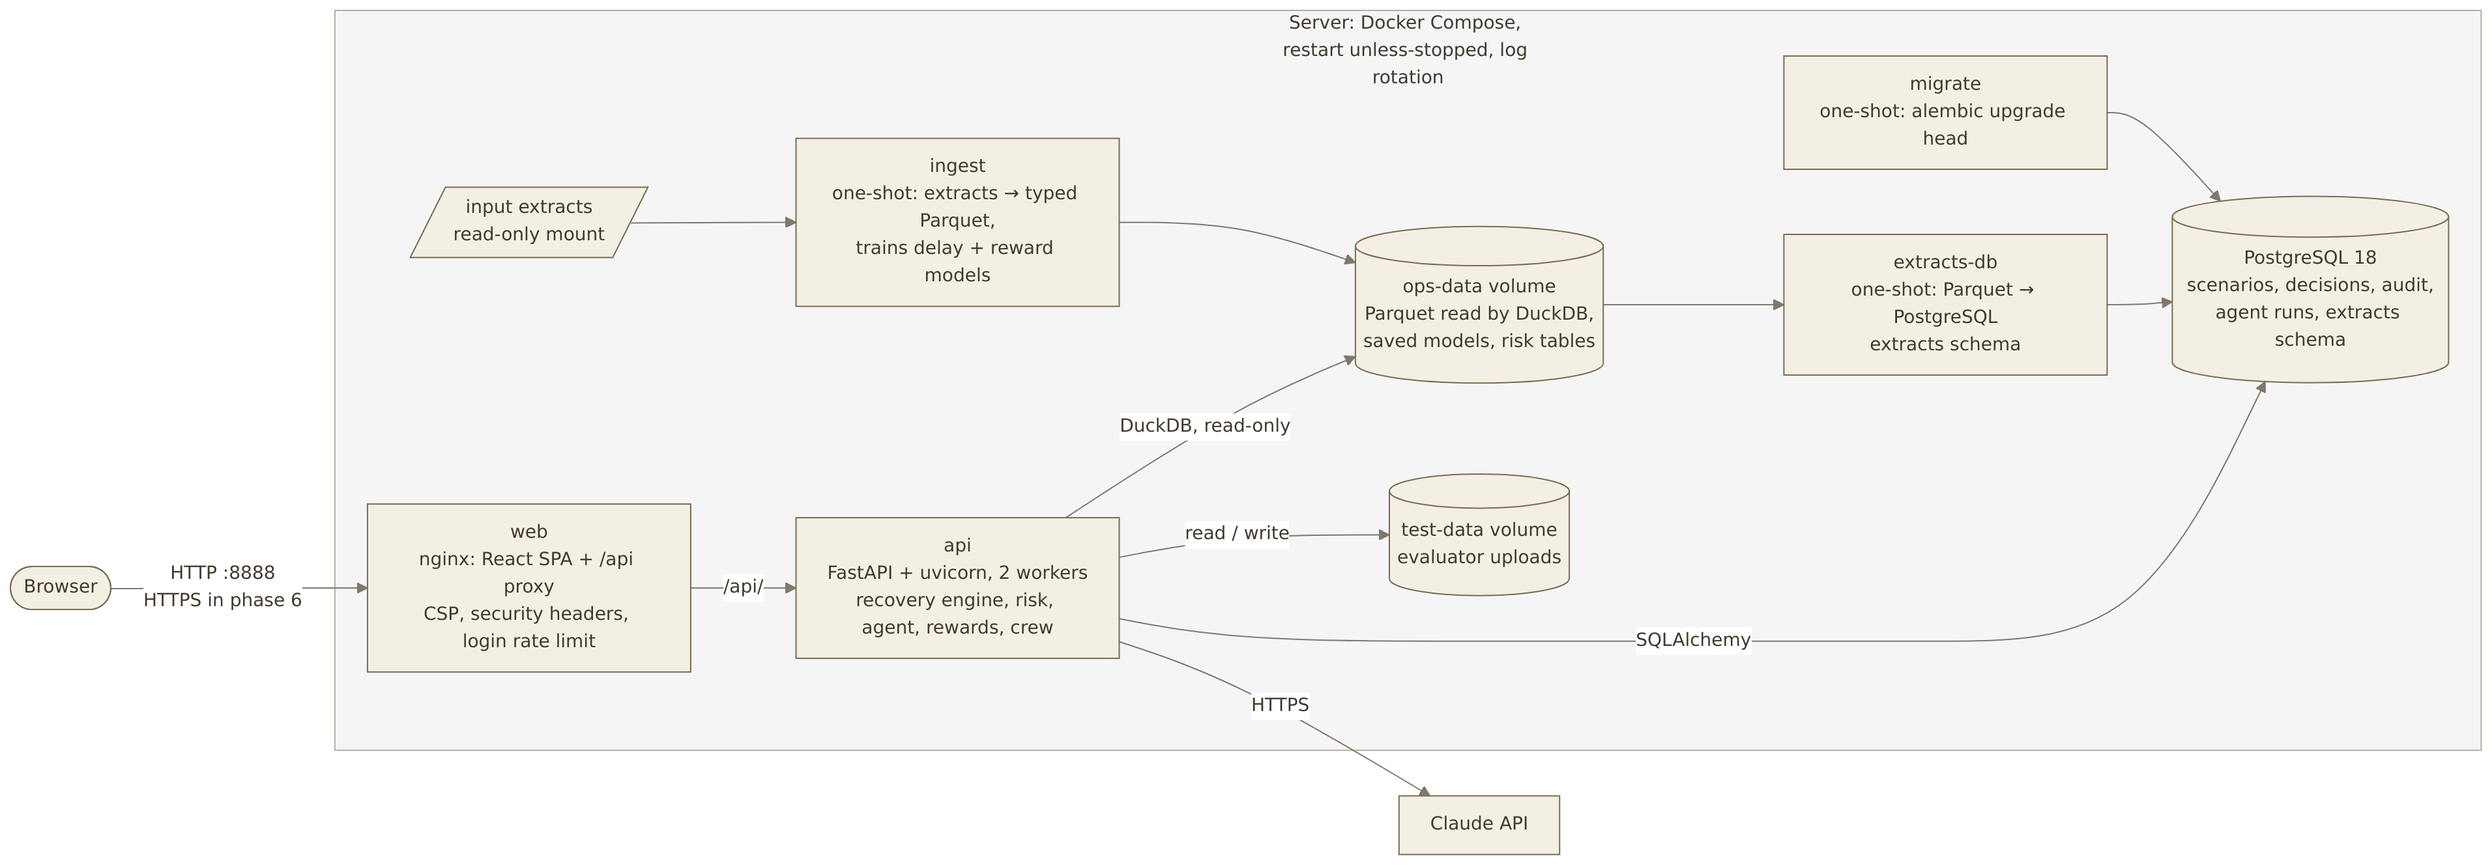
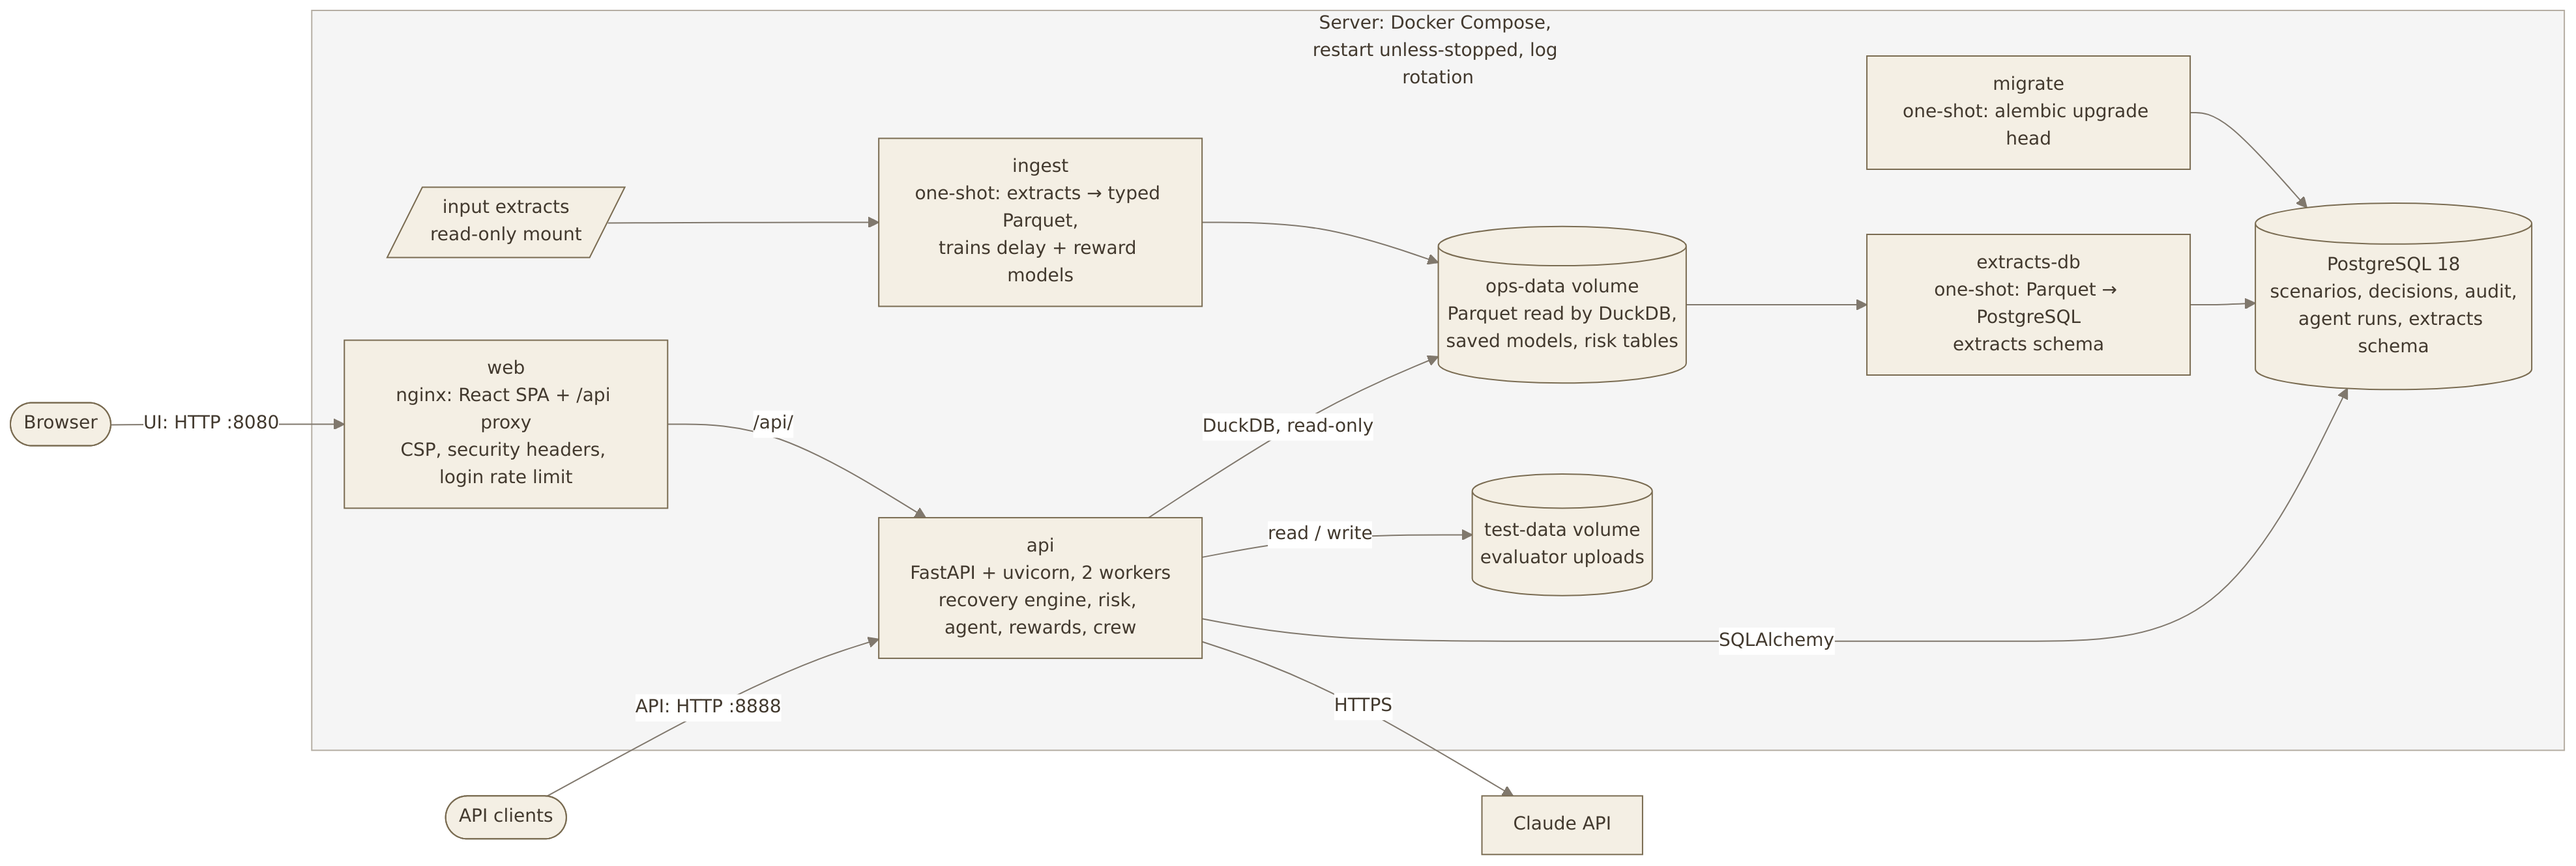
disruption-advisor: Port changes

diff --git a/products/disruption-advisor/source/disruption-advisor/docs/deployment/DEPLOYMENT_GUIDE.md b/products/disruption-advisor/source/disruption-advisor/docs/deployment/DEPLOYMENT_GUIDE.md
@@ -6,20 +6,20 @@ This guide covers the target host, how the MVP and phase 2 (Predict) are deploye
 | Item | Value |
 |---|---|
 | Host | OCI VM (eu-frankfurt-1), x86_64, 8 vCPU, 62 GiB, Oracle Linux 10, Docker 29 + Compose v5, firewalld |
-| URL | `http://<server>:8888`. HTTP only; HTTPS is planned for phase 6 (needs approval) |
-| Published ports | 8888 (`web`) only. PostgreSQL and the API are reachable only on the Compose network |
+| URL | UI `http://<server>:8080`; API `http://<server>:8888/api/...` (docs: `/api/docs`). HTTP only; HTTPS is planned in ADR 0009 (`docs/architecture/adr/0009-https-and-backups.md`) |
+| Published ports | 8080 (`web`, UI) and 8888 (`api`, directly). PostgreSQL is reachable only on the Compose network. Decision and risks: ADR 0015 (`docs/architecture/adr/0015-published-ports-ui-8080-api-8888.md`) |
 | Paths on the host | Code: `~/apps/disruption-advisor` · extracts (read-only mount): `~/disruption-advisor-input` (mode 700) · secrets: `~/apps/disruption-advisor/settings.env` (mode 600; `.env` is a link to it for Docker Compose) |
 | Data | Docker volumes `disruption-advisor_db-data` (PostgreSQL: scenarios, decisions) and `disruption-advisor_ops-data` (Parquet built by `ingest`, including the phase 2 delay-risk outputs) |
 
 ## First deployment
 1. **Copy the repository** to the host. Exclude `settings.env`, `.env`, `node_modules`, `logs` and build output.
 2. **Copy the extracts** to the input folder (`scp`).
-3. **Create `settings.env`** with `scripts/init-settings.sh` and fill it with new random values: database password, `TOKEN_SECRET`, `DEMO_USERS` passwords, `ANTHROPIC_API_KEY`. Set `WEB_PORT=8888` and `INPUT_DIR` to the input folder, (the script sets mode 600).
+3. **Create `settings.env`** with `scripts/init-settings.sh` and fill it with new random values: database password, `TOKEN_SECRET`, `DEMO_USERS` passwords, `ANTHROPIC_API_KEY`. Set `INPUT_DIR` to the input folder (the ports default to `UI_PORT=8080` and `API_PORT=8888`), (the script sets mode 600).
 4. **Build and start:** `docker compose build && docker compose up -d`. The first `ingest` takes about 4 minutes.
    - Ingest **stage 3** (phase 2) trains the delay-risk model and scores the window. It takes about 30 s on the server and writes `flight_risk.parquet`, `connection_risk.parquet` and `model_card.json` into the ops volume. It reruns whenever stage 2 reruns (new extracts, options or build code), so every data drop retrains the model. Without these files the risk endpoints answer 503 and the rest of the app works as before.
 5. **Verify**:
-   - `scripts/smoke.sh http://<server>:8888`
-   - `E2E_BASE_URL=http://<server>:8888 scripts/e2e.sh`, run from a workstation with Docker
+   - `scripts/smoke.sh http://<server>:8080 http://<server>:8888` (UI port, then API port)
+   - `E2E_BASE_URL=http://<server>:8080 scripts/e2e.sh`, run from a workstation with Docker
    - `docker compose ps` shows `api` and `web` as healthy
    - `docker compose logs ingest` shows `stage 3 done`, and the "Delay watchlist (7 days)" tab lists flights
    - `docker compose logs api` shows no errors
@@ -31,7 +31,7 @@ This guide covers the target host, how the MVP and phase 2 (Predict) are deploye
 - **Limits:**
   - memory: `db` 1 GB, `api` 3 GB, `ingest` 8 GB, `web` 256 MB;
   - JSON logs rotate at 10 MB × 5 files per container.
-- **Phase 2 reboot test: not done yet** (pending user approval). Until it passes, phase 2 is reported as deployed with operational verification pending. Use the steps below.
+- **Phase 2 reboot test: not done yet** (pending approval). Until it passes, phase 2 is reported as deployed with operational verification pending. Use the steps below.
 - **Reboot test, 2026-11-20 (PASSED, phase 1 stack):**
   - `sudo systemctl reboot` at 19:55:41Z; SSH was back after about 50 s.
   - Docker was active, and `db`, `api` and `web` were healthy 30 s after boot with no manual action.
@@ -59,7 +59,7 @@ This guide covers the target host, how the MVP and phase 2 (Predict) are deploye
 - **The server can hold changes that are not in git.** Before copying the tree, compare it with the repository (a checksum of every tracked file; for files that differ, check whether the server copy is just an older repository state). On 2026-11-21 this found a production fix to `frontend/nginx.conf` (re-resolving the API address through Docker DNS) that existed only on the server; it was committed first so the update could not overwrite it.
 - **Copying with `tar` adds and overwrites but never deletes.** A file removed from the repository stays on the server and can break the build (a removed panel left its old source file, and the web build failed on it). After copying, list the server's source files that are not tracked (`frontend/src`, `backend/app`, `backend/tests`, `e2e/tests`, `scripts`) and remove the stale ones.
 - **Ingest stages after an update:** stage 2 (operating picture), 3 (delay risk), 3b (cascade check) and 4 (reward preference model, simulated history) all rerun because their code is part of the ingest's change check; about 40 seconds in total on the server.
-- **Checks after the update:** `scripts/smoke.sh`, `E2E_BASE_URL=http://localhost:8888 scripts/e2e.sh` on the server (8 tests), and the new endpoints (`/api/v1/risk/cascade`, `/api/v1/scenarios/{id}/rewards`).
+- **Checks after the update:** `scripts/smoke.sh`, `E2E_BASE_URL=http://localhost:8080 scripts/e2e.sh` on the server (8 tests), and the new endpoints (`/api/v1/risk/cascade`, `/api/v1/scenarios/{id}/rewards`).
 
 ### Roles, test data and the saved model (added 2026-11-21)
 - `DEMO_USERS` in the server `settings.env` needs an entry with role `EVALUATOR` (`user:password:EVALUATOR`); only that role sees the Model Card and Test data views and the server refuses the others (403). Use hex passwords (no colon or comma).

diff --git a/products/disruption-advisor/source/disruption-advisor/docs/architecture/adr/0015-published-ports-ui-8080-api-8888.md b/products/disruption-advisor/source/disruption-advisor/docs/architecture/adr/0015-published-ports-ui-8080-api-8888.md
@@ -1,0 +1,22 @@
+# ADR-0015: Published ports: web UI on 8080, API directly on 8888 (HTTP)
+
+- **Status:** Accepted (2026-11-21)
+- **Context:**
+  - Until now one port was published: `8888` on the `web` container (nginx), which served the React app and passed `/api/` calls to the API. The API container was reachable only on the Compose network.
+  - The product owner asked for the UI on port 8080 and the API on port 8888, both over plain HTTP, with no reverse proxy, no redirects, no HTTPS on 443, and no change to the server's settings or firewall (8080 and 8888 are already open there).
+- **Decision:**
+  - `web` publishes `${UI_PORT:-8080}:8080`. The React app keeps calling its own `/api/...`; nginx in the `web` container forwards those calls to `api:8000`, so the UI needs no cross-origin (CORS) setup.
+  - `api` publishes `${API_PORT:-8888}:8000`. API clients call `http://<host>:8888/api/v1/...`; the OpenAPI documentation is at `http://<host>:8888/api/docs`. Nothing else is served on 8888 and nothing redirects.
+  - New variables `UI_PORT` and `API_PORT` (see `settings.env.example`). An older `WEB_PORT` value in an existing `settings.env` is ignored, so a server needs no settings change.
+  - `scripts/smoke.sh <ui-url> <api-url>` checks both ports.
+- **Known risks (deviations from the security baseline, accepted for the demo):**
+  - **No TLS:** sign-in and data travel unencrypted on both ports. HTTPS remains planned in ADR 0009 (`docs/architecture/adr/0009-https-and-backups.md`).
+  - **No sign-in rate limit on 8888:** the limit of 10 sign-ins per minute is set in the `web` container's nginx (`frontend/nginx.conf`) and applies to the UI port only.
+  - **Forwarded headers:** uvicorn trusts `X-Forwarded-For` from any client (`backend/app/serve.py`), which was safe behind nginx. On 8888 a client can set the address that the API logs.
+  - **Internal service exposed:** the API container is reachable from outside, not only the web entry point.
+- **Alternatives considered:**
+  - **API on 8888 through nginx:** keeps the rate limit and headers, but a reverse proxy in front of the API was not wanted.
+  - **HTTPS on 443 with Caddy (ADR 0009):** not wanted at this stage.
+- **Consequences:**
+  - Links to `http://<host>:8888` for the UI stop working; the UI address is `http://<host>:8080`.
+  - Closing the risks above needs an application change (a sign-in limit in the API and trusted proxy addresses only) or a proxy in front of the API.

diff --git a/instructions/PRODUCT_RULES.md b/instructions/PRODUCT_RULES.md
@@ -68,7 +68,7 @@ Content that can be pasted straight into a Confluence page (the Markdown paste o
 - Suggested sections: Overview · Business problem and goals · Scope and features · Architecture (services, Kafka topics, data stores) · Technology stack · Environments and deployment · How to build, run and test · API summary · Security · Test results · Known limitations and open decisions · Roadmap · Contacts/ownership (placeholders).
 
 ## 7. No build-process traces in client deliverables (user instruction 2026-11-21)
-The product solution and its Confluence pages are shared with the client. They must never mention how the product was built with the AI assistant: no "approved by the user", "(user 2026-11-21)", "user decision / request / instruction"; no task or decision IDs (T-511, D-028); no `execution/` paths or log files; no MASTER_PROMPT or engineering-standards section numbers; no stack-profile, toolkit or technology-selection-checkpoint notes; no "teammate" or session remarks. Provenance stays in `execution/` only.
+The product solution and its Confluence pages are shared with the client. They must never mention how the product was built with the AI assistant: no "approved by the user", "(user 2026-11-21)", "user decision / request / instruction / approval"; no task or decision IDs (T-511, D-028); no `execution/` paths or log files; no MASTER_PROMPT or engineering-standards section numbers; no stack-profile, toolkit or technology-selection-checkpoint notes; no "teammate" or session remarks. Provenance stays in `execution/` only.
 
 **Do not write traces in the first place.** New docs, ADRs, code comments, tests and commit-ready files state neutral facts ("Accepted (2026-11-21)", "Scope: G9 only", "skipped by decision", "product-owner decision Q8").
 

diff --git a/execution/DEPLOYMENT_STATUS.md b/execution/DEPLOYMENT_STATUS.md
@@ -2,6 +2,8 @@
 Overall: **PHASES 1-3 AND 5 DEPLOYED – OPERATIONAL VERIFICATION PENDING** (no reboot test for phases 2, 3 and 5; nightly backups and HTTPS are phase 6) · Updated: 2026-11-21T05:35Z · production deploy of heshawa 2d58d6e verified: smoke 11/11, Playwright 8/8, new endpoints and reward plans checked (output/T-516-*.log); rollback tag pre-202611210525 + dump ~/backups/disruption-advisor/pre-202611210525.dump
 Target: OCI VM 92.5.154.198 (same host as the esm-hub discovery below), port 8888, code ~/apps/disruption-advisor, extracts ~/disruption-advisor-input (700 + ACL for container uid 999), secrets ~/apps/disruption-advisor/settings.env (600; .env is a link to it). Demo logins: workspace input/secrets/disruption-advisor-demo-logins.txt (git-ignored).
 
+**Ports (2026-11-21T18:06Z, T-636):** UI http://92.5.154.198:8080, API http://92.5.154.198:8888/api/... (published directly, ADR 0015); plain HTTP; :8888 no longer serves the UI. Rollback: ~/backups/disruption-advisor/pre-202611211805/ (compose.yml + scripts), image tags pre-202611211805, dump pre-202611211805.dump; restore files and `docker compose up -d --no-deps --no-build api web`. Smoke 15/15, Playwright 11/11 (output/T-636-prod-*.log).
+
 | Phase | Status | Approval |
 |---|---|---|
 | 0 Design | DONE (artifact https://claude.ai/artifact/PTzSvCcSHABHNz7HYhxG2s) | user 2026-11-20 |

diff --git a/execution/RESUME.md b/execution/RESUME.md
@@ -1,3 +1,4 @@
+# T-636 (2026-11-21) DONE: prod ports UI :8080, API :8888 direct (ADR 0015), verified smoke 15/15 + Playwright 11/11; rollback pre-202611211805; NOT committed. Open: Confluence/deck still show :8888 as UI URL
 # T-635 (2026-11-21) DONE: product source on v1.0.0 has no build-process traces (cleanup committed c54d50b; App.tsx login comment fixed after af96bc2, NOT committed); gate PASS; Confluence ADR 0001 row reverted
 # RESUME (updated 2026-11-21) — T-624: pulled 238f949 + crew FDP alerts (T-620/623) on local, gate 134+38, smoke 11/11, e2e 9+2 skip; NOT committed/deployed. Other session T-621 live-delay WIP kept OUT of tree: stash@{0} + execution/logs/output/T-621-other-session-wip
 T-630 (2026-11-21 15:43Z) DEPLOYED heshawa 7addde6: suggestions always chips, crew section after Flight Board. Smoke 11/11, PLAYWRIGHT 11/11. Rollback pre-202611211543.

diff --git a/products/disruption-advisor/source/disruption-advisor/docs/architecture/SYSTEM_ARCHITECTURE.md b/products/disruption-advisor/source/disruption-advisor/docs/architecture/SYSTEM_ARCHITECTURE.md
@@ -264,6 +264,8 @@ flowchart LR
 - Secrets live only in the server's `.env` (mode 600), never in git.
 - The incremental plan (MVP, then the later phases, each needing approval) is in [../delivery/MVP_AND_INCREMENTAL_PLAN.md](../delivery/MVP_AND_INCREMENTAL_PLAN.md).
 
+**Published ports now (ADR 0015, `docs/architecture/adr/0015-published-ports-ui-8080-api-8888.md`):** the UI is on `http://92.5.154.198:8080` (`web`, nginx; its own `/api` calls go to `api:8000` inside Compose) and the API is published directly on `http://92.5.154.198:8888/api/...`. Both are plain HTTP. The diagrams above show the original MVP design with a single port 8888.
+
 ## 9. Cross-cutting concerns
 - **Security:**
   - Login with two demo roles (OCC, PCU); credentials come from server secrets (ADR 0004).

diff --git a/products/disruption-advisor/source/disruption-advisor/README.md b/products/disruption-advisor/source/disruption-advisor/README.md
@@ -33,7 +33,7 @@ scripts/init-settings.sh  # creates settings.env (visible, mode 600) and the lin
 # then edit settings.env: INPUT_DIR, passwords, DEMO_USERS, TOKEN_SECRET (and optionally ANTHROPIC_API_KEY)
 docker compose up -d --build
 ```
-Then open `http://localhost:${WEB_PORT}`. The API docs are at `/api/docs`.
+Then open the UI at `http://localhost:${UI_PORT}` (default 8080). The API is published on `http://localhost:${API_PORT}` (default 8888), e.g. `/api/v1/...`; its docs are at `/api/docs` on either port. Ports and their risks: ADR 0015 (`docs/architecture/adr/0015-published-ports-ui-8080-api-8888.md`).
 
 Start-up runs in this order:
 1. `db`
